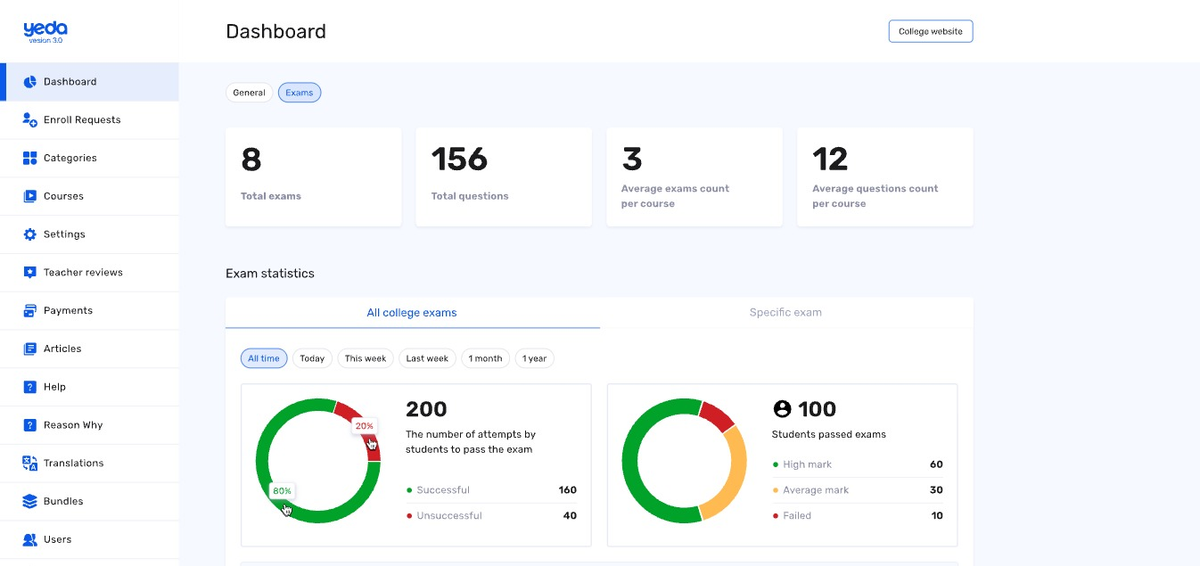
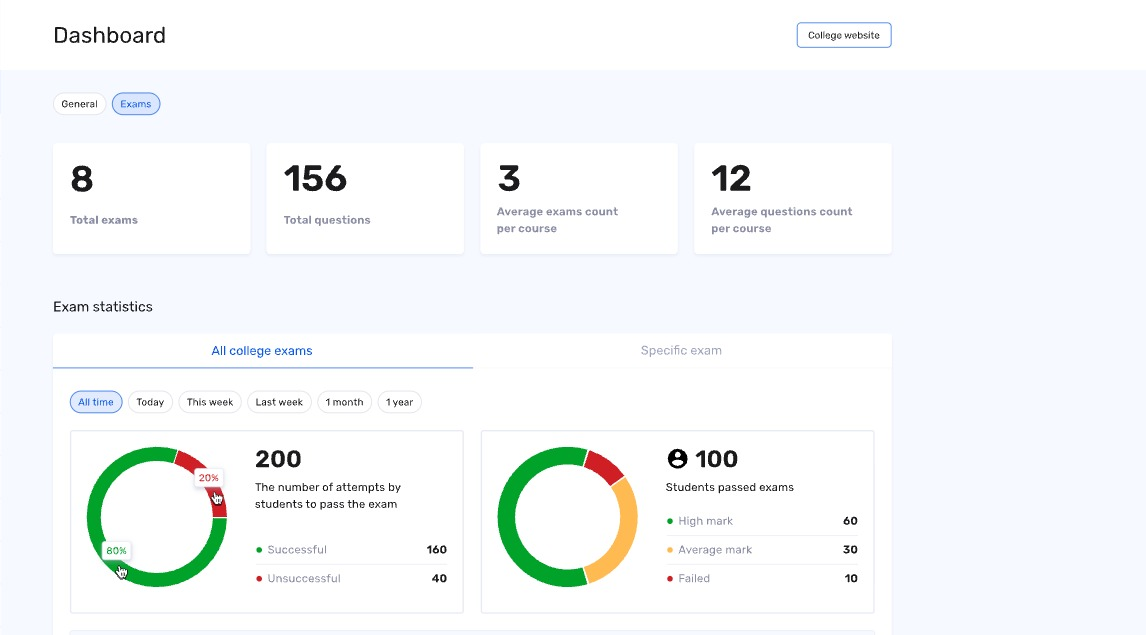
Dashboard slide: crop off the navigation rail
Victor: "crop the photo so that only the dashboard can be seen". The rail is
white and the content area's ground is pale blue-grey, so the boundary measures
exactly - white through x=199, page background from x=200. Cut there.

1200x566 -> 1146x635. The ratio improves as a side effect: 1.805 instead of
2.120, which puts the slide in the middle of the track rather than making it the
widest in it. The bottom edge is unchanged and still lands in the gap under the
donut cards - four rows of page background below the card border, no next card
sliced.

One thing goes with the rail: the yeda wordmark sat in it, so this is no longer
the one carousel image carrying Yeda's own branding.

diff --git a/content/media.ts b/content/media.ts
@@ -901,13 +901,21 @@ const publicApiReference = pending(
 
    alt, caption and the filename are all rewritten: the old ones described the
    General tab, and the file was called ...users-and-activity, which this is
-   not. Portrait source, landscape crop — 2.120 makes it the widest slide in
-   either track, just past the roadmap's 2.041. */
+   not.
+
+   NAVIGATION RAIL CROPPED OFF at x=200, on Victor's instruction — "crop the
+   photo so that only the dashboard can be seen". The rail is white and the
+   content area's ground is pale blue-grey, so the boundary measures exactly:
+   white through x=199, page background from x=200. Two consequences. The ratio
+   improves — 1.805 rather than 2.120, which puts it in the middle of the track
+   instead of making it the widest slide in it. And the yeda wordmark goes with
+   the rail, so this is no longer the one carousel image carrying Yeda's own
+   branding. Only the dashboard is left, which is what was asked for. */
 const orgAdminHome: Shot = {
   id: "organizations-admin-dashboard",
   file: `${P}/yeda-organizations-admin-dashboard-exam-statistics.png`,
-  width: 1200,
-  height: 566,
+  width: 1146,
+  height: 635,
   alt: "The Yeda administrator dashboard on its exams tab, showing exam and question totals beside the pass rate and the spread of marks",
   caption:
     "The administrator's home — how many exams and questions are in play, what share of attempts succeeded, and how the people who passed are spread across the mark bands.",
